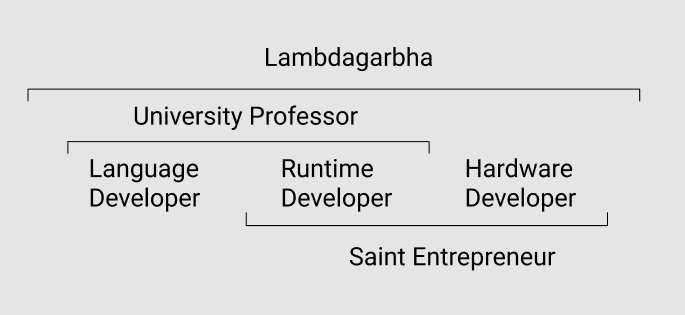
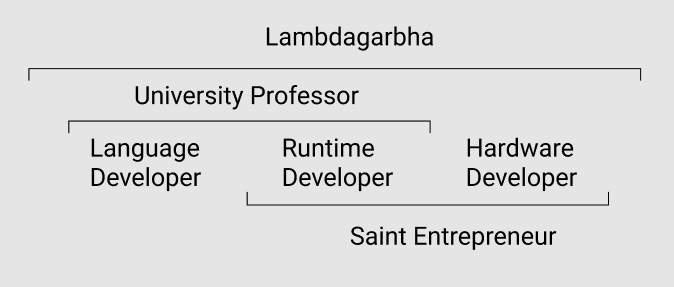
update images

diff --git a/stream/2020/2020-12-03 Топовый программист 4.htm b/stream/2020/2020-12-03 Топовый программист 4.htm
@@ -29,7 +29,7 @@ TO: <a href="https://patreon.com/5HT">Patreon Subscribers</a>
    условного топового программиста, но я возьму на себе смелость открыть это тайное знание.
    Начну описание курса с известной мемной картики:</p>
 
-<figure><img src="img/Capture1.PNG"></figure>
+<figure><img src="img/Capture1.PNG?v=1"></figure>
 
 <p>Единорогами называют тех программистов, которые одинаково хорошо владеют CSS скажем,
    а также могут полностью построить любой сложности тонкий или толстый клиент не
@@ -39,7 +39,7 @@ TO: <a href="https://patreon.com/5HT">Patreon Subscribers</a>
    систем на границе с единорогами (которые обычно не занимаются процессиногом,
    инфраструктурой, сетями и защитой).</p>
 
-<figure><img src="img/Capture2.PNG"></figure>
+<figure><img src="img/Capture2.PNG?v=1"></figure>
 
 <p>Следующий условный уровень &mdash; это платформообразующий уровень, который
    включет язык программирования, рантайм и аппаратуру. Обычно взрослые академические языки
@@ -48,7 +48,7 @@ TO: <a href="https://patreon.com/5HT">Patreon Subscribers</a>
    продают вместе с железом и все кто это пытался продвигать на рынок можно
    приравнять к бодхисаттвам. </p>
 
-<figure><img src="img/Capture4.PNG"></figure>
+<figure><img src="img/Capture3.PNG?v=1"></figure>
 
    <p>На абсолютном уровне программисты (в том числе и топовые) являются математиками,
       поэтому тут можно отметить ядро которое было открыто Квилленом &mdash; модельные категории,
@@ -59,7 +59,7 @@ TO: <a href="https://patreon.com/5HT">Patreon Subscribers</a>
       но и А1-теория гомотопий Воеводского. Все это крышуется Гротендиком,
       как мультидисциплинарным программистом абсолютного уровня (топ-математиком).</p>
 
-<figure><img src="img/Capture5.PNG"></figure>
+<figure><img src="img/Capture4.PNG?v=1"></figure>
 
 <p>Без лишний скромности, любой программист который смог не только представить
    и успеть порабать за жизнь на всех уровнях, может считать себя Буддой программирования,
